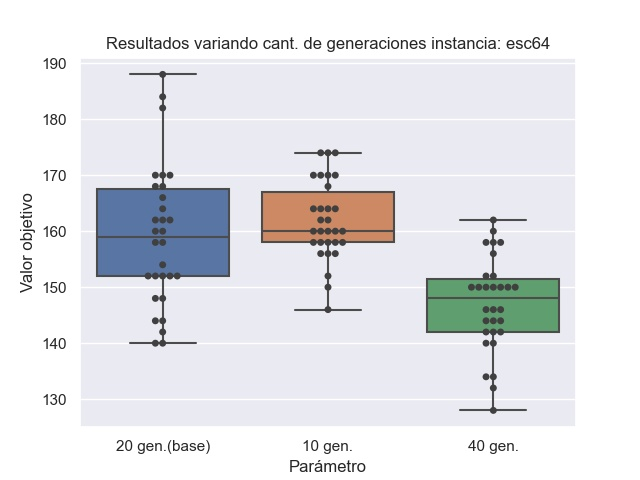
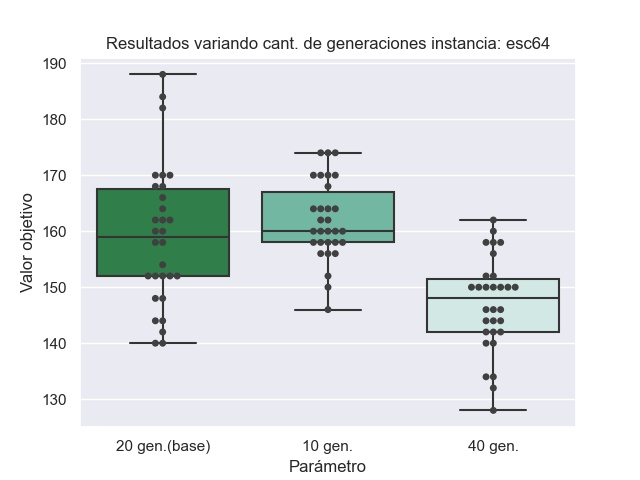
ADD: Plots for bests SA and GA

Changed region(s): [[0.125, 0.375, 0.375, 0.5938], [0.6562, 0.5625, 0.875, 0.7188], [0.4062, 0.375, 0.625, 0.5312]]

diff --git a/graph.py b/graph.py
@@ -65,7 +65,7 @@ def unify_data(parameter_list, filename_list, iterations, format_file):
     return dataframe_times, dataframe_bests
 
 def graph_boxplot(data, filename, title, evaluation_criteria):
-    ax = sns.boxplot(x='Parámetro', y= evaluation_criteria, data= data)
+    ax = sns.boxplot(x='Parámetro', y= evaluation_criteria, data= data, palette = "BuGn_r")
     ax = sns.swarmplot(x="Parámetro", y= evaluation_criteria, data= data, color=".25")
     ax.set_title(title)
     ax.figure.savefig(filename,
@@ -230,11 +230,11 @@ graph_boxplot(iteration_bests, "plots_sa/kra32_iteration_obj_value_boxplot.jpg",
 """"""""""""""""""""" BESTS COMPARATIONS """""""""""""""""""""
 
 ###### INSTANCIA 1 #######
-#algorithm = ["SA", "GA"]
-#filename_bests_chr12a = ["result_best/chr12a_best_sa","result_best/chr12a_best_ga"]
-#times, bests = unify_data(algorithm, filename_bests_chr12a, 30, 1)
-#graph_scatterplot(times, "plots_best/chr12a_best_time_boxplot.jpg", "Instancia: chr12a", 'Tiempo')
-#graph_boxplot(bests, "plots_best/chr12a_best_obj_value_boxplot.jpg", "Instancia: chr12a", 'Valor objetivo')
+algorithm = ["SA", "GA"]
+filename_bests_chr12a = ["result_best/chr12a_best_sa","result_best/chr12a_best_ga"]
+times, bests = unify_data(algorithm, filename_bests_chr12a, 30, 1)
+graph_scatterplot(times, "plots_best/chr12a_best_time_boxplot.jpg", "Tiempos obtenidos por ambas metaheuristicas Instancia: chr12a", 'Tiempo')
+graph_boxplot(bests, "plots_best/chr12a_best_obj_value_boxplot.jpg", "Valores objetivos obtenidos por ambas metaheuristicas Instancia: chr12a", 'Valor objetivo')
 
 """"""""""""""""""""""" GA RESULTS """""""""""""""""""""""""""
 
